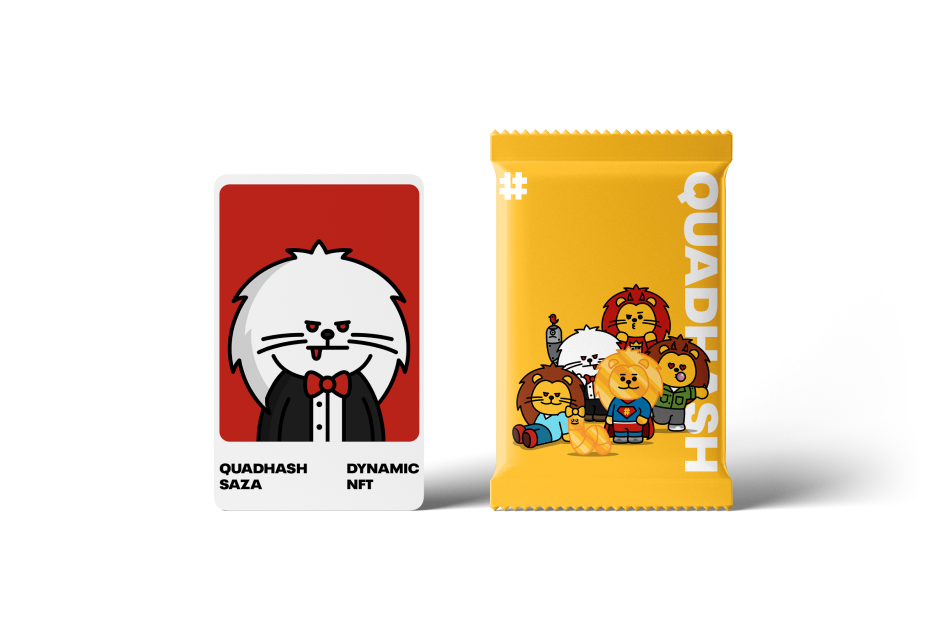
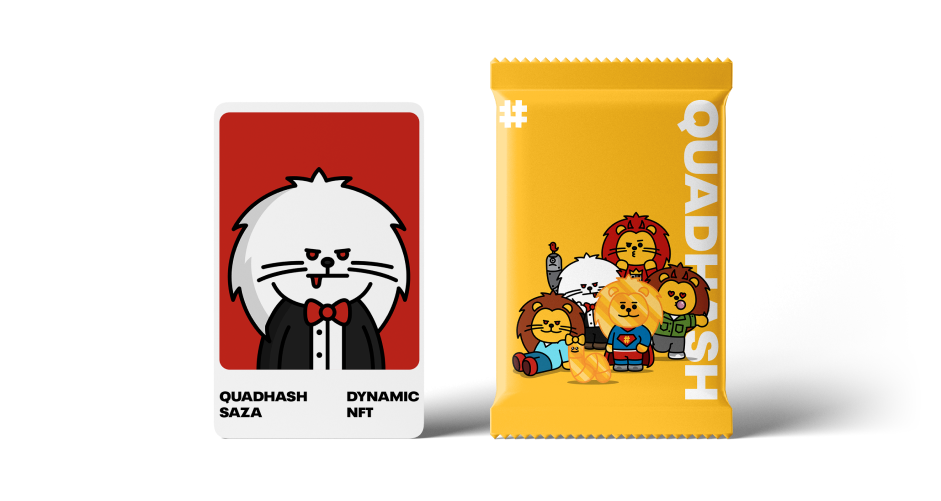
no message

Changed region(s): [[0.2157, 0.1198, 0.9245, 0.8982], [0.2157, 0.2096, 0.4623, 0.2994]]

diff --git a/src/app/[locale]/(normal)/containers/ dynamicNFT/DynamicNFTDetailContainer.tsx b/src/app/[locale]/(normal)/containers/ dynamicNFT/DynamicNFTDetailContainer.tsx
@@ -33,6 +33,8 @@ export default function DynamicNFTDetailContainer({
     const [imageUrl, setImageUrl] = React.useState('')
     const [backgroundColor, setBackgroundColor] = React.useState('')
 
+    const [prevParts, setPrevParts] = React.useState(null)
+
     const [disabledPartsCategory, setDisabledPartsCategory] = React.useState([])
 
     // const [selectedPartsData, setSelectedPartsData] = React.useState({
@@ -48,7 +50,6 @@ export default function DynamicNFTDetailContainer({
 
     const [selectedPartsData, setSelectedPartsData] = React.useState({
         partsData: { trait_type: '', value: '' },
-
         tokenType: tokenType,
         availability: false,
         pool: [],
@@ -200,6 +201,7 @@ export default function DynamicNFTDetailContainer({
                 if (result.ok) {
                     fetchData()
                     updateSession()
+                    setPrevParts(selectedPartsData.partsData.trait_type)
                     await $alert('Dynamic NFT 적용 완료되었습니다.')
 
                     // const keyChanged = selectedCategory?.trait_type
@@ -232,20 +234,6 @@ export default function DynamicNFTDetailContainer({
     }
 
     React.useEffect(() => {
-        // const disabledPartsResult = checkDisabledPartsCategory()
-        // console.log(disabledPartsResult)
-        // setDisabledPartsCategory(disabledPartsResult)
-
-        // if (disabledPartsResult?.length === NFTMetadata?.attributes.length - 1) {
-        //     setSelectedPartsData({
-        //         partsData: { trait_type: '', value: '' },
-        //         tokenType: tokenType,
-        //         availability: false,
-        //         pool: [],
-        //     })
-        //     return
-        // }
-
         if (NFTMetadata) {
             setBackgroundColor(
                 backgroundPallete[
@@ -255,61 +243,56 @@ export default function DynamicNFTDetailContainer({
                 ],
             )
 
-            NFTMetadata?.attributes.forEach((item) => {
-                if (item.availability === true) {
-                    setSelectedPartsData((prev) => ({
-                        partsData: { trait_type: item.trait_type, value: item.value },
-                        tokenType: tokenType,
-                        availability: item.availability,
-                        pool: item.pool,
-                    }))
-                    return false
-                }
-            })
+            // NFTMetadata?.attributes.forEach((item) => {
+            //     if (item.availability === true) {
+            //         setSelectedPartsData((prev) => ({
+            //             partsData: { trait_type: item.trait_type, value: item.value },
+            //             tokenType: tokenType,
+            //             availability: item.availability,
+            //             pool: item.pool,
+            //         }))
+            //         return false
+            //     }
+            // })
 
-            for (let i = 0; i < NFTMetadata?.attributes.length; i++) {
-                if (NFTMetadata?.attributes[i].availability === true) {
-                    setSelectedPartsData((prev) => ({
-                        partsData: {
-                            trait_type: NFTMetadata?.attributes[i].trait_type,
-                            value: NFTMetadata?.attributes[i].value,
-                        },
-                        tokenType: tokenType,
-                        availability: NFTMetadata?.attributes[i].availability,
-                        pool: NFTMetadata?.attributes[i].pool,
-                    }))
-                    break
+            if (!prevParts) {
+                for (let i = 0; i < NFTMetadata?.attributes.length; i++) {
+                    if (NFTMetadata?.attributes[i].availability === true) {
+                        setSelectedPartsData((prev) => ({
+                            partsData: {
+                                trait_type: NFTMetadata?.attributes[i].trait_type,
+                                value: NFTMetadata?.attributes[i].value,
+                            },
+                            tokenType: tokenType,
+                            availability: NFTMetadata?.attributes[i].availability,
+                            pool: NFTMetadata?.attributes[i].pool,
+                        }))
+                        break
+                    }
                 }
+            } else {
+                console.log(NFTMetadata)
+                const data = NFTMetadata?.attributes.find((data) => {
+                    return data.trait_type === prevParts
+                })
+
+                console.log('prev123123', data)
+                setSelectedPartsData((prev) => ({
+                    partsData: {
+                        trait_type: data.trait_type,
+                        value: data.value,
+                    },
+                    tokenType: data.tokenType,
+                    availability: data.availability,
+                    pool: data.pool,
+                }))
             }
-            // if (tokenType === 'saza') {
-            //     const result = sazaCategoryValidation(
-            //         NFTMetadata.attributes[0].value,
-            //         selectedPartsData.partsData.trait_type,
-            //     )
-            //     console.log(result)
-
-            // setSelectedPartsData((prev) => ({
-            //     ...prev,
-            //     partsData: NFTMetadata.attributes[0],
-            //     availability: result.availability,
-            //     pool: result.pool,
-            // }))
-            // } else if (tokenType === 'gaza') {
-            //     const result = gazaCategoryValidation(
-            //         NFTMetadata.attributes[0].value,
-            //         selectedPartsData.partsData.trait_type,
-            //         NFTMetadata.attributes.filter((item, index) => index !== 0),
-            //     )
-            //     console.log('result', result)
-            //     // setSelectedPartsData((prev) => ({
-            //     //     ...prev,
-            //     //     partsData: NFTMetadata.attributes[0],
-            //     //     availability: result.availability,
-            //     //     pool: result.pool,
-            //     // }))
-            // }
         }
     }, [NFTMetadata])
+
+    React.useEffect(() => {
+        console.log('123123', selectedPartsData)
+    }, [selectedPartsData])
 
     const fetchData = async () => {
         if (tokenType && tokenId) {
@@ -352,7 +335,7 @@ export default function DynamicNFTDetailContainer({
                     className={`w-full flex flex-row items-end justify-center lg:px-5 max-h-[864px] gap-5 overflow-hidden rounded-lg shadow-2xl relative bg-[${backgroundColor}]
                     `}
                     style={{ backgroundColor: backgroundColor }}>
-                    <div className="absolute left-4 hidden lg:flex flex-col items-start gap-4 -translate-y-20 pl-3">
+                    <div className="absolute left-4 hidden lg:flex flex-col items-start gap-4 top-1/2 -translate-y-1/2 pl-3">
                         <div
                             className={`${
                                 backgroundColor === '#FFFFFF' ? 'text-black' : 'text-[#FFFFFF]'
@@ -497,7 +480,10 @@ export default function DynamicNFTDetailContainer({
                     selectedPartsData.pool.length > 0 && ( */}
                 <div className="flex flex-col justify-center items-start w-full">
                     <div className="text-[25px] mb-5 font-medium">Parts List</div>
-                    <PartsListComponent selectedPartsData={selectedPartsData} />
+                    <PartsListComponent
+                        tokenType={tokenType}
+                        selectedPartsData={selectedPartsData}
+                    />
                 </div>
 
                 {/* )} */}

diff --git a/src/app/[locale]/(normal)/components/dynamicNFT/PartsListComponent.tsx b/src/app/[locale]/(normal)/components/dynamicNFT/PartsListComponent.tsx
@@ -4,6 +4,7 @@ import CardComponent from './CardComponent'
 import PartCardComponent from './PartCardComponent'
 
 export interface IPartsListComponentProps {
+    tokenType: string
     selectedPartsData: {
         partsData: {
             trait_type: string
@@ -15,11 +16,14 @@ export interface IPartsListComponentProps {
     }
 }
 
-export default function PartsListComponent({ selectedPartsData }: IPartsListComponentProps) {
-    const { partsData, tokenType, pool } = selectedPartsData
+export default function PartsListComponent({
+    selectedPartsData,
+    tokenType,
+}: IPartsListComponentProps) {
+    const { partsData, pool } = selectedPartsData
 
     React.useEffect(() => {
-        console.log(selectedPartsData)
+        console.log('gggg', selectedPartsData)
     }, [selectedPartsData])
 
     return (

diff --git a/src/app/[locale]/(normal)/containers/ dynamicNFT/DynamicNFTMainContainer.tsx b/src/app/[locale]/(normal)/containers/ dynamicNFT/DynamicNFTMainContainer.tsx
@@ -11,7 +11,7 @@ const { Link } = createSharedPathnamesNavigation({ locales })
 export default function DynamicNFTMainContainer(props: IDynamicNFTMainContainerProps) {
     return (
         <>
-            <div className="max-w-[1300px] p-5 w-full flex flex-col justify-center items-center  lg:gap-5">
+            <div className="max-w-[1300px] p-5 w-full flex flex-col justify-center items-center">
                 <div className="flex flex-col items-center text-[40px] lg:text-[70px] font-black text-[#F46221]">
                     <div className="leading-tight">QUADHASH</div>
                     <div className="leading-tight">DYNAMIC NFT</div>

diff --git a/src/middleware.ts b/src/middleware.ts
@@ -67,9 +67,11 @@ export default async function middleware(req: NextRequestWithAuth) {
     )
 
     const privatePathnameRegex = RegExp(
-        `^(/(${locales.join('|')}))?(${privatePages
+        `^(/(${locales.join('|')})?)?(${privatePages
             .flatMap((p) => (p === '/' ? ['', '/'] : p))
-            .join('|')})(?:\/(?:list|[a-zA-Z]+\/\d+))?$`,
+            .join(
+                '|',
+            )})(?:\/(?:list|[a-zA-Z]+\/\d+))?(?!\/dynamicNFT(?:\/(?:list|saza\/'\d+'|gaza\/'\d+'))(?:\/|$)).*$`,
         'i',
     )
 

diff --git a/src/app/[locale]/(normal)/components/collectables/CollectionDetailModalComponent.tsx b/src/app/[locale]/(normal)/components/collectables/CollectionDetailModalComponent.tsx
@@ -69,9 +69,6 @@ export default function CollectionDetailModalComponent({
         }
     }, [contractAddress, selectedTokenId])
 
-    React.useEffect(() => {
-        console.log(backgroundColor)
-    }, [backgroundColor])
     return (
         <>
             {imageUrl && (

diff --git a/src/app/[locale]/(normal)/components/dynamicNFT/PartCardComponent.tsx b/src/app/[locale]/(normal)/components/dynamicNFT/PartCardComponent.tsx
@@ -7,7 +7,6 @@ export interface ICardComponentProps {
 }
 
 export default function CardComponent({ tokenType, partsData, item }: ICardComponentProps) {
-    console.log(item, partsData)
     return (
         <>
             <div
